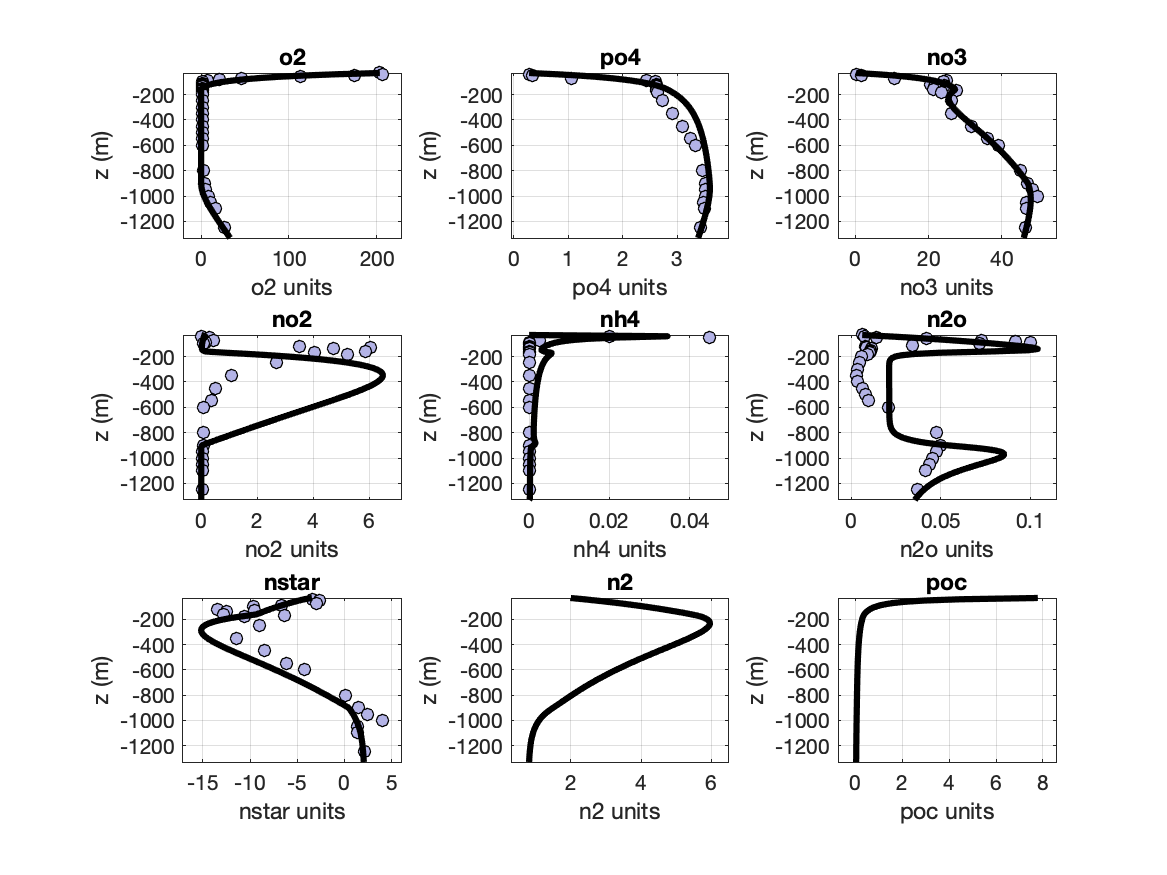
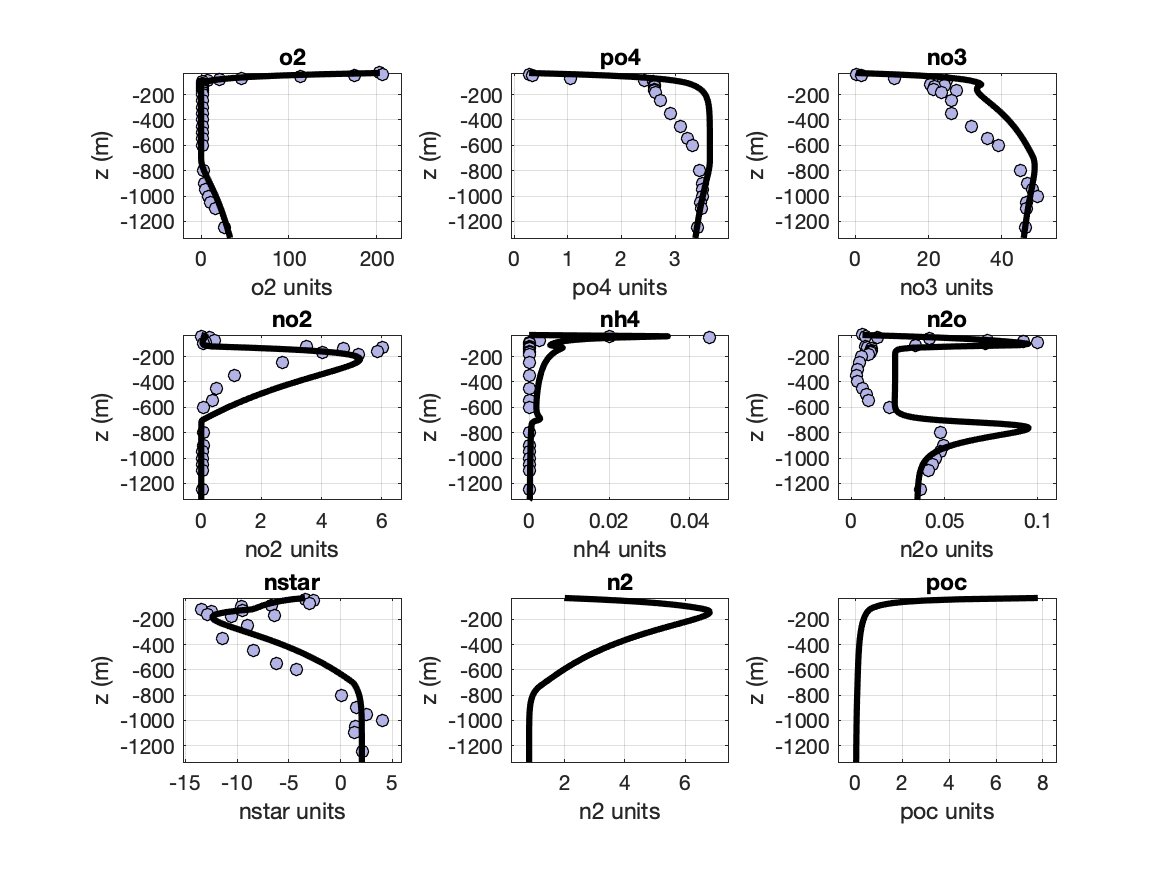
switch back to old stoichiometry

diff --git a/runscripts/bgc1d_initIso_Dep_params.m b/runscripts/bgc1d_initIso_Dep_params.m
@@ -9,42 +9,42 @@
  %%%%%% Ammonium oxidation %%%%%
  %%%%%%%%%%%%%%%%%%%%%%%%%%%%%%%%
  % Alpha for ammox -- NH4-->NO2:
- bgc.alpha_ammox_no2 = 1.0 - bgc.eps_ammox_no2./1000.0;  % Fractionation factor during ammox (permil)
+ bgc.alpha_ammox_no2 = 1.0 / (1.0 + bgc.eps_ammox_no2./1000.0);  % Fractionation factor during ammox (permil)
  % Alpha for ammox -- NH4-->N2O:
- bgc.alpha_ammox_n2o = 1.0 - bgc.eps_ammox_n2o./1000.0;  % Fractionation factor during N2O prod. via NH2OH (permil)
- bgc.alpha_ammox_n2oA = 1.0 - bgc.eps_ammox_n2oA./1000.0;  % Fractionation factor during N2O prod. via NH2OH (permil)
- bgc.alpha_ammox_n2oB = 1.0 - bgc.eps_ammox_n2oB./1000.0;  % Fractionation factor during N2O prod. via NH2OH (permil)
+ bgc.alpha_ammox_n2o = 1.0 / (1.0 + bgc.eps_ammox_n2o./1000.0);  % Fractionation factor during N2O prod. via NH2OH (permil)
+ bgc.alpha_ammox_n2oA = 1.0 / (1.0 + bgc.eps_ammox_n2oA./1000.0);  % Fractionation factor during N2O prod. via NH2OH (permil)
+ bgc.alpha_ammox_n2oB = 1.0 / (1.0 + bgc.eps_ammox_n2oB./1000.0);  % Fractionation factor during N2O prod. via NH2OH (permil)
  % Alpha for nitrif-denitrif -- NH4-->NO2:
- bgc.alpha_nden_no2 = 1.0 - bgc.eps_nden_no2./1000.0;    % Fractionation factor during nitrifier-denitrification (permil)
+ bgc.alpha_nden_no2 = 1.0 / (1.0 + bgc.eps_nden_no2./1000.0);    % Fractionation factor during nitrifier-denitrification (permil)
  % Alpha for nitrif-denitrif -- NH4-->N2O:
- bgc.alpha_nden_n2o = 1.0 - bgc.eps_nden_n2o./1000.0;    % Fractionation factor during nitrifier-denitrification (permil)
- bgc.alpha_nden_n2oA = 1.0 - bgc.eps_nden_n2o./1000.0;    % Fractionation factor during nitrifier-denitrification (permil)
- bgc.alpha_nden_n2oB = 1.0 - bgc.eps_nden_n2o./1000.0;    % Fractionation factor during nitrifier-denitrification (permil)
+ bgc.alpha_nden_n2o = 1.0 /(1.0 + bgc.eps_nden_n2o./1000.0);    % Fractionation factor during nitrifier-denitrification (permil)
+ bgc.alpha_nden_n2oA = 1.0 / (1.0 + bgc.eps_nden_n2o./1000.0);    % Fractionation factor during nitrifier-denitrification (permil)
+ bgc.alpha_nden_n2oB = 1.0 / (1.0 + bgc.eps_nden_n2o./1000.0);    % Fractionation factor during nitrifier-denitrification (permil)
 
  %%%%%% Nitrite oxidation %%%%%%%
  %%%%%%%%%%%%%%%%%%%%%%%%%%%%%%%%
  % Alpha for nitrox -- NO2-->NO3
- bgc.alpha_nitrox = 1.0 - bgc.eps_nitrox./1000.0;        % Fractionation factor during nitrox (permil)
+ bgc.alpha_nitrox = 1.0 / (1.0 + bgc.eps_nitrox./1000.0);        % Fractionation factor during nitrox (permil)
 
  %%%%%%% Denitrification %%%%%%%%
  %%%%%%%%%%%%%%%%%%%%%%%%%%%%%%%%
  % Alpha for den1 -- NO3-->NO2
- bgc.alpha_den1 = 1.0 - bgc.eps_den1./1000.0;          % Fractionation factor during denitrification 1 (permil)
+ bgc.alpha_den1 = 1.0 / (1.0 + bgc.eps_den1./1000.0);          % Fractionation factor during denitrification 1 (permil)
  % Alpha for den2 -- NO2-->N2O
- bgc.alpha_den2 = 1.0 - bgc.eps_den2./1000.0;          % Fractionation factor during denitrification 2 (permil)
- bgc.alpha_den2A = 1.0 - bgc.eps_den2A./1000.0;          % Fractionation factor during denitrification 2 (permil)
- bgc.alpha_den2B = 1.0 - bgc.eps_den2B./1000.0;          % Fractionation factor during denitrification 2 (permil)
+ bgc.alpha_den2 = 1.0 / (1.0 + bgc.eps_den2./1000.0);          % Fractionation factor during denitrification 2 (permil)
+ bgc.alpha_den2A = 1.0 / (1.0 + bgc.eps_den2A./1000.0);          % Fractionation factor during denitrification 2 (permil)
+ bgc.alpha_den2B = 1.0 / (1.0 + bgc.eps_den2B./1000.0);          % Fractionation factor during denitrification 2 (permil)
  % Alpha for den3 -- N2OA-->N2
- bgc.alpha_den3_Alpha = 1.0 - bgc.eps_den3_Alpha./1000.0;          % Fractionation factor during denitrification 3 (permil)
+ bgc.alpha_den3_Alpha = 1.0 / (1.0 + bgc.eps_den3_Alpha./1000.0);          % Fractionation factor during denitrification 3 (permil)
   % Alpha for den3 -- N2OB-->N2
- bgc.alpha_den3_Beta = 1.0 - bgc.eps_den3_Beta./1000.0;          % Fractionation factor during denitrification 3 (permil)
+ bgc.alpha_den3_Beta = 1.0 / (1.0 + bgc.eps_den3_Beta./1000.0);          % Fractionation factor during denitrification 3 (permil)
 
  %%%%%%%%%%% Anammox %%%%%%%%%%%%
  %%%%%%%%%%%%%%%%%%%%%%%%%%%%%%%%
  % Alpha for Anammox -- NO2-->N2
- bgc.alpha_ax_no2 = 1.0 - bgc.eps_ax_no2./1000.0;        % Fractionation factor during anammox (permil)
+ bgc.alpha_ax_no2 = 1.0 / (1.0 + bgc.eps_ax_no2./1000.0);        % Fractionation factor during anammox (permil)
  % Alpha for Anammox -- NH4-->N2
- bgc.alpha_ax_nh4 = 1.0 - bgc.eps_ax_nh4./1000.0;        % Fractionation factor during anammox (permil)
+ bgc.alpha_ax_nh4 = 1.0 / (1.0 + bgc.eps_ax_nh4./1000.0);       % Fractionation factor during anammox (permil)
 
  %%%%%%  bound. conditions %%%%%%
  %%%%%%%%%%%%%%%%%%%%%%%%%%%%%%%%

diff --git a/runscripts/bgc1d_initbgc_params.m b/runscripts/bgc1d_initbgc_params.m
@@ -60,6 +60,7 @@ bgc.KO2Ao = 0.16;       % Half sat. constant for Ammonium oxidation (mmolO2/m3) 
 bgc.KNo = 0.113/86400; % Max. Nitrite oxidation rate (mmolN/m3/s) - Babbin 2020 ETNP offshore
 %bgc.KNo = 0.0874/86400; % Max. Nitrite oxidation rate (mmolN/m3/s) - Travis 2023
 %bgc.KNo = 0.465/86400;   % Max. Nitrite oxidation rate (mmolN/m3/s) - CLK ETNP 2018 rates;
+%bgc.KNo = 0.01/86400; % Max. Nitrite oxidation rate (mmolN/m3/s) for anoxic nitrite oxidation
 
 %bgc.KNO2No = 6.7;       % Half sat. constant for nitrite oxidation (mmolN/m3) - Sun 2021 offshore %v5.4: 0.0272;
 bgc.KNO2No = 0.8;       % Half sat. constant for nitrite oxidation (mmolN/m3) - Sun 2021 coastal
@@ -73,31 +74,32 @@ bgc.KO2No = 0.01;      % Half sat. constant of NO2 for Nitrite oxidation (mmolO2
 % Denitrif1: NO3 --> NO2
 %bgc.KDen1 = 0.0215/86400;  % Max. denitrif1 rate (1/s) %v5.4: 0.08/2/(86400);
 %bgc.KDen1 = 0.00063/86400; % Max. denitrif1 rate (1/s) - Nicole light & rates paper coastal
-bgc.KDen1 = 0.0024/86400; % Max. denitrif1 rate (1/s) - Nicole light & rates paper offshore
+bgc.KDen1 =  0.0024/86400; % Max. denitrif1 rate (1/s) - Nicole light & rates paper offshore
 %bgc.KDen1 = 0.0011/86400; %0.003/86400; % Max. denitrif1 rate (1/s) - CLK ETNP coastal
 %bgc.KDen1 = 0.0019/86400; %0.003/86400; % Max. denitrif1 rate (1/s) - CLK ETNP offshore
 bgc.KO2Den1 = 5.0;         % O2 poisoning constant for denitrif1 (mmolO2/m3) %v5.4: 1.0;
 bgc.KNO3Den1 = 0.4;        % Half sat. constant of NO3 for denitrif1 (mmolNO3/m3) %v5.4: 0.5;
+%bgc.KDen1 =  0.01/86400; %0.0024/86400; % Max. denitrif1 rate (1/s) for anoxic nitrite oxidation
 
 % Denitrif2: NO2 --> N2O
 %bgc.KDen2 = 0.08/86400;% Max. denitrif2 rate (1/s) %v5.4: 0.08/6/(86400);
-%bgc.KDen2 = 0.00012/86400; % Max. denitrif2 rate (1/s) - CLK ETNP coastal
-bgc.KDen2 =  0.00032/86400; %0.000016/86400; % Max. denitrif2 rate (1/s) - CLK ETNP offshore
+%bgc.KDen2 = 0.0000587/86400; % Max. denitrif2 rate (1/s) - CLK ETNP coastal
+bgc.KDen2 =  0.0006/86400; %0.00000782/86400; % Max. denitrif2 rate (1/s) - CLK ETNP offshore
 bgc.KO2Den2 = 0.9434;         % O2 poisoning constant for denitrif2 (mmolO2/m3) - CLK ETNP 2018 rates (1/1.06)
 bgc.KNO2Den2 = 0.05;       % Half sat. constant of NO2 for denitrification2 (mmolNO3/m3) %v5.4: 0.5;
 
 % Denitrif3: N2O --> N2
 %bgc.KDen3 = 0.0455/86400;   % Max. denitrif3 rate (1/s) %v5.4: 0.08/3/(86400);
-%bgc.KDen3 = 0.00020/86400; % Max. denitrif3 rate (1/s)  - Sun 2021b coastal
-bgc.KDen3 =  0.004/86400; %0.00036/86400; % Max. denitrif3 rate (1/s)  - Sun 2021b offshore
-%bgc.KDen3 = 0.00016/86400; % Max. denitrif3 rate (1/s)  - Babbin 2015
+%bgc.KDen3 = 0.000196/86400; % Max. denitrif3 rate (1/s)  - Sun 2021b coastal
+bgc.KDen3 =  0.01/86400; %0.000362/86400;  % Max. denitrif3 rate (1/s)  - Sun 2021b offshore
+%bgc.KDen3 = 0.000155/86400; % Max. denitrif3 rate (1/s)  - Babbin 2015
 bgc.KO2Den3 = 0.11;         % O2 poisoning constant for denitrif3 (mmolO2/m3) %v5.4: 0.0292;
-bgc.KN2ODen3 = 0.2;         % Half sat. constant of N2O for denitrification3 (mmolNO3/m3) %v5.4: 0.02;
+bgc.KN2ODen3 = 0.334;         % Half sat. constant of N2O for denitrification3 (mmolNO3/m3) %v5.4: 0.02;
 
 % Denitrif4: NO3 --> N2O
 %bgc.KDen4 = 0.08/6/(86400);    % Max. denitrif2 rate (1/s)
-%bgc.KDen4 = 0.00075/86400;      % Max. denitrif2 rate (1/s) - CLK ETNP coastal
-bgc.KDen4 = 0.0025/(86400); %0.00033/(86400);  % Max. denitrif2 rate (1/s) - CLK ETNP offshore
+%bgc.KDen4 = 0.000375/86400;      % Max. denitrif2 rate (1/s) - CLK ETNP coastal
+bgc.KDen4 =  0.0015/(86400); %0.000166/(86400); % Max. denitrif2 rate (1/s) - CLK ETNP offshore
 bgc.KO2Den4 = 3.3333;           %  O2 poisoning constant for denitrif4 (mmolO2/m3) - CLK ETNP 2018 rates (1/0.3)
 %bgc.KO2Den4 = 5.71;            %  O2 poisoning constant for denitrif4 (mmolO2/m3)- Frey et al., 2020 (Figure 4c)
 bgc.KNO3Den4 = 0.5;             % Half sat. constant of NO2 for denitrification2 (mmolNO3/m3)

diff --git a/runscripts/bgc1d_initialize.m b/runscripts/bgc1d_initialize.m
@@ -25,7 +25,7 @@ bgc.depthvar_wup = 0;           % Constant (0) or depth-dependent (1) upwelling 
 bgc.depthvar_Kv  = 1;       % Constant (0) or depth-dependent (1) diffusion profile %CLK: turning off depth-dependent allows us to replicate old model
 bgc.iTstep       = 3;           % Constant (1) or variable (2) time-stepping
 bgc.depparams    = 1;			% Initialize dependent parameters that depend on bgc1d_initbgc_params 
-bgc.RestoringOff = 1;	        % If (1), turns restoring off for all variables
+bgc.RestoringOff = 0;	        % If (1), turns restoring off for all variables
 bgc.forceanoxic  = 0;           % If (1), force anoxia over a given depth range
 bgc.tauZvar      = 1;           % If (1), use a depth-dependent restoring time-scale (requires bgc.Tau_profiles)
 bgc.RunIsotopes = true; % true -> run with isotopes
@@ -104,7 +104,7 @@ end
 
 %%%%%% Upwelling speed %%%%%%%%%
 % Depth-dependent velocity requires a forcing file (set in bgc1d_initialize_DepParam.m)
-bgc.wup_param = 2.0 * 7.972e-8; % 1.8395e-7; % m/s  % note: 10 m/y = 3.1710e-07 m/s % v5.4: 1.683e-7;
+bgc.wup_param = 6.0 * 7.972e-8; %2.0 * 7.972e-8; % 1.8395e-7; % m/s  % note: 10 m/y = 3.1710e-07 m/s % v5.4: 1.683e-7;
 
 %%%%%%%%%%% Diffusion %%%%%%%%%%
 bgc.Kv_param  = 2.0 * 1.701e-5; %2.0 * 1.701e-5 % constant vertical diffusion coefficient in m^2/s % v5.4: 1.701e-5;

diff --git a/functions/get_stoichiometry.m b/functions/get_stoichiometry.m
@@ -10,9 +10,9 @@ O2toH2O_e = 4;
 % number of electrons required to reduce HNO3 to HNO2
 HNO3toHNO2_e = 2;
 % Number of electrons required to reduce HNO2 to N2O ---> Need to check b/c # of N atoms changes
-HNO2toN2O_e = 4; % CLK: 4 electrons because it's 2 e- per HNO2, times 2 HNO2
+HNO2toN2O_e = 2; % CLK: 4 electrons because it's 2 e- per HNO2, times 2 HNO2
 %numbers of electrons required to reduce HNO3 to N2O
-HNO3toN2O_e = 8;
+HNO3toN2O_e = 4;
 % Number of electrons required to reduce N2O to N2
 N2OtoN2_e = 2;
 
@@ -24,8 +24,8 @@ bgc.NCden1 = (Corg_e / HNO3toHNO2_e) / a;      % Nitrate to Carbon ratio during 
 bgc.NCden2 = (Corg_e / HNO2toN2O_e) / a;       % Nitrite to Carbon ratio during nitrite reduction to N2O (molNO2/molC)
 bgc.NCden3 = (Corg_e / N2OtoN2_e) / a;         % N2O to Carbon ratio during N2O reduction (molN2O/molC)
 bgc.NCden4 = (Corg_e / HNO3toN2O_e) / a;         % Nitrate to Carbon ratio during nitrate reduction to N2O (molNO3/molC)
-bgc.PCden1 = 1 / a;
-bgc.PCden2 = 1 / a;
-bgc.PCden3 = 1 / a;
+bgc.PCden1 = 0.0; %1 / a;
+bgc.PCden2 = 0.0; %1 / a;
+bgc.PCden3 = 0.0; %1 / a;
 
 end

diff --git a/runscripts/bgc1d_initboundary.m b/runscripts/bgc1d_initboundary.m
@@ -4,7 +4,7 @@ function bgc = bgc1d_initboundary(bgc)
 % % % % % % % % % % % % % % % % % % % % % % % % % % % % % % % % % % % % % % % %
 switch bgc.region
 case 'ETNP'
-	bgc.poc_flux_top = -11.0/86400; %-6.0/86400*1.00; % Bry cond. for top POC Flux            (mmolC/m2/s) %v5.4: -7.0/86400;
+	bgc.poc_flux_top = -11.0/86400; %-11.0/86400; %-6.0/86400*1.00; % Bry cond. for top POC Flux            (mmolC/m2/s) %v5.4: -7.0/86400;
 	bgc.o2_top  = 203.65;               % Bry cond. for surface Oxygen          (mmolO2/m3)
 	bgc.o2_bot  = 33.0;                 % Bry cond. for deep Oxygen             (mmolO2/m3)
 	bgc.no3_top = 0.21;                 % Bry cond. for surface Nitrate         (mmolNO3/m3)

diff --git a/bgc1d_src/bgc1d_sourcesink_isos.m b/bgc1d_src/bgc1d_sourcesink_isos.m
@@ -77,6 +77,7 @@
      % (3) Nitrite oxidation (molN-units):
      %----------------------------------------------------------------------
      Nitrox = bgc.KNo .*  mm1(t.o2,bgc.KO2No) .* mm1_Iso(t.no2,t.i15no2,bgc.KNO2No);
+     %Nitrox = bgc.KNo .* mm1_Iso(t.no2,t.i15no2,bgc.KNO2No); % allow anoxic nitrite oxidation
 
      %----------------------------------------------------------------------
      % (4) N2O and NO2 production by ammox and nitrifier-denitrif (molN-units):
